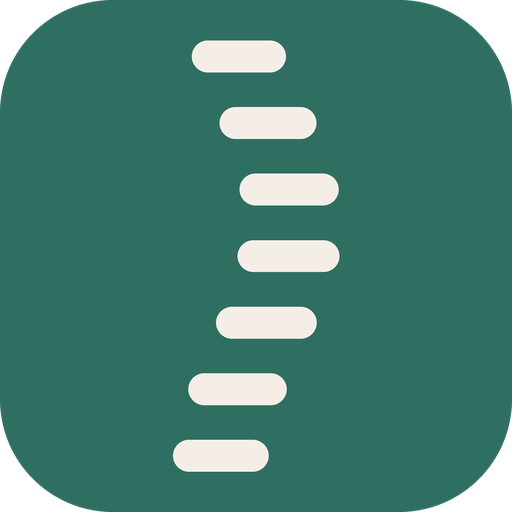
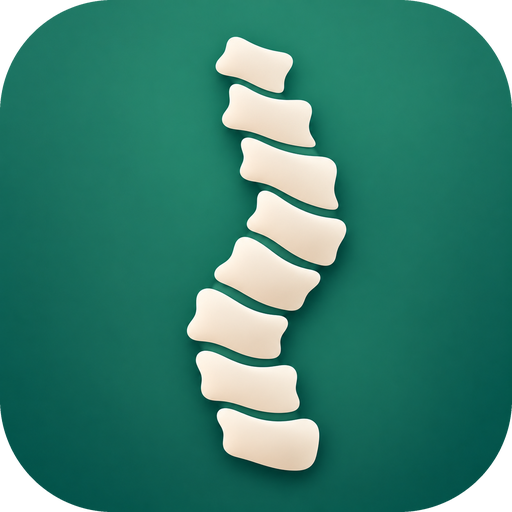
Icona nuova

diff --git a/sw.js b/sw.js
@@ -3,7 +3,7 @@
    que é por origem e atravessa o isolamento do iPhone entre o Safari e o app instalado (o localStorage não atravessa).
    Rede primeiro, cache como reserva: com internet vem sempre a versão nova, sem ela continua funcionando.
    Subir a VERSÃO em gerar.py a cada mudança, senão o celular segue com o arquivo velho. */
-const CACHE = 'schiena-v2';
+const CACHE = 'schiena-v3';
 const PASTAS = ["k4r8tz", "v2m9sa", "c7n3qe", "f5w1pd", "x9t6lb"];
 const ARQS = ['conteudo.js', 'figura.js', 'img/icones/icone-192.png', 'img/icones/favicon-32.png', 'img/icones/apple-touch-180.png',
   ...PASTAS.map(p => p + '/'), ...PASTAS.map(p => p + '/manifest.webmanifest')];

diff --git a/_fonte/icones.py b/_fonte/icones.py
@@ -1,38 +1,23 @@
-# Gera os ícones do app (PNG) com o desenho da marca: fundo verde e a coluna em pontos, solta, em curva suave.
+# Gera os ícones do app (PNG) a partir de _fonte/icone-fonte.png (desenho da marca feito no ChatGPT, fundo cheio).
 #   python _fonte/icones.py
-import math, os
+import os
 from PIL import Image, ImageDraw
 
 AQUI = os.path.dirname(os.path.abspath(__file__))
 SAIDA = os.path.join(os.path.dirname(AQUI), 'img', 'icones')
 os.makedirs(SAIDA, exist_ok=True)
+fonte = Image.open(os.path.join(AQUI, 'icone-fonte.png')).convert('RGB')
 
-VERDE, CREME = (47, 111, 98), (244, 238, 230)
+def arredondado(lado, raio=.22):
+    im = fonte.resize((lado, lado), Image.LANCZOS).convert('RGBA')
+    m = Image.new('L', (lado * 4, lado * 4), 0)
+    ImageDraw.Draw(m).rounded_rectangle([0, 0, lado * 4 - 1, lado * 4 - 1], radius=int(lado * 4 * raio), fill=255)
+    im.putalpha(m.resize((lado, lado), Image.LANCZOS))
+    return im
 
-def icone(lado, margem_segura=False, cantos=True):
-    k = 4  # desenha grande e reduz, para a borda sair lisa
-    L = lado * k
-    im = Image.new('RGBA', (L, L), (0, 0, 0, 0))
-    d = ImageDraw.Draw(im)
-    if cantos:
-        d.rounded_rectangle([0, 0, L - 1, L - 1], radius=int(L * .22), fill=VERDE)
-    else:
-        d.rectangle([0, 0, L, L], fill=VERDE)
-    escala = .62 if margem_segura else .78
-    # a coluna: 7 vértebras numa curva em S suave, cada uma uma pílula
-    n = 7
-    for i in range(n):
-        t = i / (n - 1)
-        y = L * (.5 - escala / 2 + escala * t)
-        x = L * .5 + math.sin(t * math.pi * 1.6 - .5) * L * .07 * escala / .78
-        w = L * (.20 - .03 * abs(t - .55)) * escala / .78
-        h = L * .062 * escala / .78
-        d.rounded_rectangle([x - w / 2, y - h / 2, x + w / 2, y + h / 2], radius=int(h / 2), fill=CREME)
-    return im.resize((lado, lado), Image.LANCZOS)
-
-icone(192).save(os.path.join(SAIDA, 'icone-192.png'))
-icone(512).save(os.path.join(SAIDA, 'icone-512.png'))
-icone(512, margem_segura=True, cantos=False).save(os.path.join(SAIDA, 'icone-maskable-512.png'))
-icone(180, cantos=False).convert('RGB').save(os.path.join(SAIDA, 'apple-touch-180.png'))
-icone(32).save(os.path.join(SAIDA, 'favicon-32.png'))
+arredondado(192).save(os.path.join(SAIDA, 'icone-192.png'))
+arredondado(512).save(os.path.join(SAIDA, 'icone-512.png'))
+fonte.resize((512, 512), Image.LANCZOS).save(os.path.join(SAIDA, 'icone-maskable-512.png'))  # fundo cheio: o sistema recorta
+fonte.resize((180, 180), Image.LANCZOS).save(os.path.join(SAIDA, 'apple-touch-180.png'))      # iOS arredonda sozinho
+arredondado(32).save(os.path.join(SAIDA, 'favicon-32.png'))
 print('ok:', sorted(os.listdir(SAIDA)))

diff --git a/_fonte/gerar.py b/_fonte/gerar.py
@@ -17,7 +17,7 @@ PASTAS = {
 }
 # checkouts avulsos dos pacotes, abertos pelo cadeado dentro do app (preencher quando a Cakto existir)
 CHECKOUT = {'sveglia': 'https://pay.cakto.com.br/6m2q4k7', 'collo': 'https://pay.cakto.com.br/ku5ycc2', 'forte': 'https://pay.cakto.com.br/s36n8u5'}
-VERSAO = 2
+VERSAO = 3
 
 esercizi = json.load(open(os.path.join(AQUI, 'conteudo', 'esercizi.json'), encoding='utf-8'))
 piano = json.load(open(os.path.join(AQUI, 'conteudo', 'piano.json'), encoding='utf-8'))
